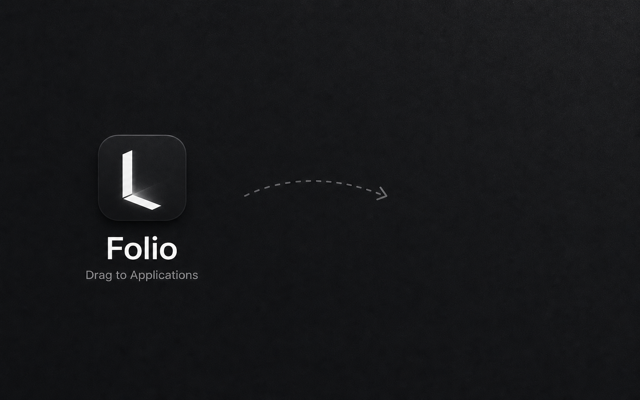
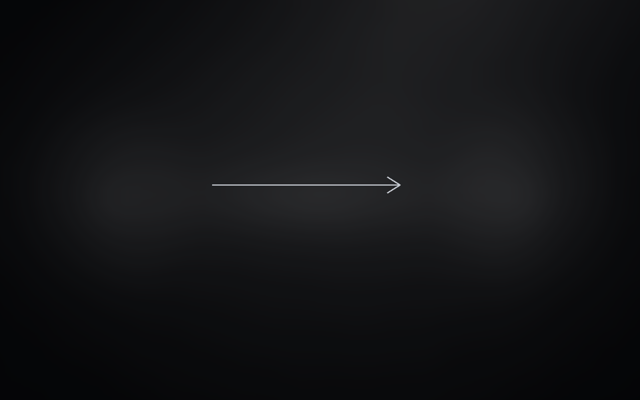
Refresh Folio installer artwork

diff --git a/scripts/render-brand-assets.py b/scripts/render-brand-assets.py
@@ -1,0 +1,72 @@
+#!/usr/bin/env python3
+"""Compose Folio's checked-in brand artwork from generated texture bases."""
+
+from __future__ import annotations
+
+import argparse
+from pathlib import Path
+
+from PIL import Image, ImageDraw, ImageFilter, ImageFont, ImageOps
+
+
+ROOT = Path(__file__).resolve().parents[1]
+FONT = Path("/System/Library/Fonts/SFNS.ttf")
+
+
+def load_font(size: int) -> ImageFont.FreeTypeFont:
+    return ImageFont.truetype(str(FONT), size=size)
+
+
+def render_dmg(source: Path) -> None:
+    output = ROOT / "assets/brand/dmg-installer-background.png"
+    image = ImageOps.fit(Image.open(source).convert("RGB"), (1600, 1000))
+    image = image.filter(ImageFilter.GaussianBlur(radius=42)).convert("RGBA")
+    image.alpha_composite(Image.new("RGBA", image.size, (3, 4, 6, 54)))
+
+    draw = ImageDraw.Draw(image, "RGBA")
+    line_y = 462
+    draw.line((530, line_y, 1000, line_y), fill=(194, 198, 205, 94), width=3)
+    draw.line((968, line_y - 20, 1000, line_y), fill=(194, 198, 205, 94), width=3)
+    draw.line((968, line_y + 20, 1000, line_y), fill=(194, 198, 205, 94), width=3)
+    image.convert("RGB").save(output, optimize=True)
+
+
+def render_banner(source: Path) -> None:
+    output = ROOT / "assets/brand/folio-readme-banner.png"
+    image = ImageOps.fit(Image.open(source).convert("RGB"), (1600, 640)).convert("RGBA")
+    image.alpha_composite(Image.new("RGBA", image.size, (2, 3, 5, 38)))
+
+    icon = Image.open(ROOT / "src-tauri/app-icon.png").convert("RGBA")
+    icon.thumbnail((236, 236), Image.Resampling.LANCZOS)
+    mask = Image.new("L", icon.size, 0)
+    ImageDraw.Draw(mask).rounded_rectangle(
+        (0, 0, icon.width - 1, icon.height - 1),
+        radius=48,
+        fill=255,
+    )
+    icon.putalpha(mask)
+    image.alpha_composite(icon, (112, 202))
+
+    draw = ImageDraw.Draw(image, "RGBA")
+    draw.text((404, 206), "Folio", font=load_font(132), fill=(246, 246, 247, 255))
+    draw.text(
+        (412, 362),
+        "Fast, private media browsing for macOS",
+        font=load_font(32),
+        fill=(190, 194, 202, 230),
+    )
+    draw.line((414, 426, 702, 426), fill=(181, 186, 195, 94), width=2)
+    image.convert("RGB").save(output, optimize=True)
+
+
+def main() -> None:
+    parser = argparse.ArgumentParser()
+    parser.add_argument("--dmg-base", required=True, type=Path)
+    parser.add_argument("--banner-base", required=True, type=Path)
+    args = parser.parse_args()
+    render_dmg(args.dmg_base)
+    render_banner(args.banner_base)
+
+
+if __name__ == "__main__":
+    main()

diff --git a/RELEASE_NOTES.md b/RELEASE_NOTES.md
@@ -9,6 +9,7 @@ Improves backend throughput and responsiveness across indexing, metadata inspect
 - Streams vault encryption and decryption in authenticated chunks instead of buffering entire files.
 - Hydrates inspector metadata lazily, including Spotlight fallback for raw image formats.
 - Fixes viewer card animation state when navigating a newly opened folder.
+- Refreshes the macOS installer artwork and README banner with a quieter minimal design.
 
 ## Verification
 
